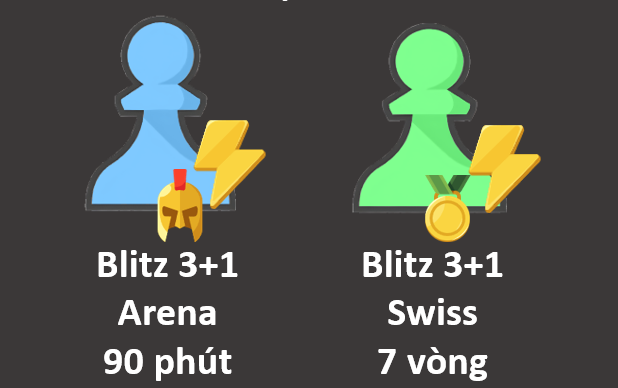
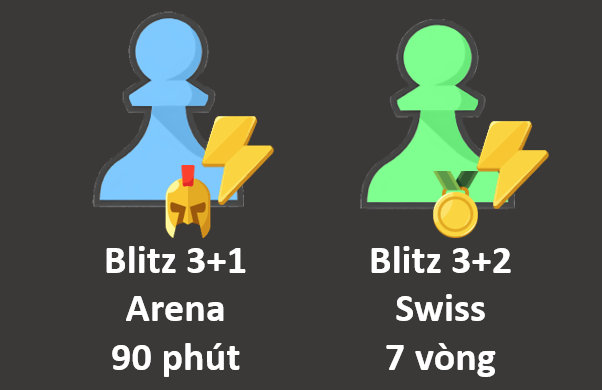
Update contents

diff --git a/js/schedule.js b/js/schedule.js
@@ -482,9 +482,6 @@ function renderEventCard(tournament, container) {
         </div>
         <div class="event-card-footer">
             <button class="btn btn-secondary card-detail-btn"><i class="bx bx-info-circle"></i> Chi tiết</button>
-            <a href="${tournament.joinLink || '#'}" target="_blank" class="card-join-link">
-                <button class="btn btn-primary"><i class="bx bx-user-plus"></i> Tham gia</button>
-            </a>
         </div>
     `;
 

diff --git a/schedule.md b/schedule.md
@@ -134,7 +134,7 @@ title: Lịch sự kiện của tháng
     <a href="/events/tvlt-thi-vua-lay-tot" style="display: block" target="_top"><img src="/images/tvltlogo.png" alt="TVLT" title="Thí Vua Lấy Tốt" class="inl-bl">: <b>Siêu giải Thí Vua Lấy Tốt</b></a><br>
     <a href="/events/cttq-chien-truong-thi-quan" style="display: block" target="_top"><img src="/images/events/logo/cttq.png" alt="CTTQ" title="Chiến Trường Thí Quân" class="inl-bl">: <b>Sự kiện Chiến Trường Thí Quân</b></a><br>
     <a href="/events/cbtt-co-bi-thi-tot" style="display: block" target="_top"><img src="/images/events/logo/cbtt-swiss.png" alt="CBTT Swiss" title="Cờ Bí Thí Tốt Swiss" class="inl-bl"><img src="/images/events/logo/cbtt-arena.png" title="Cờ Bí Thí Tốt Arena" alt="CBTT Arena" class="inl-bl">: <b>Giải đấu Cờ Bí Thí Tốt</b></a><br>
-    <a href="https://chess.com/clubs/events/thi-vua-lay-tot-tungjohn-playing-chess?clubId=325849&ref_id=89365835&cid=325849" target="_blank" style="display: block"><img src="https://chess.com/bundles/web/images/color-icons/time-daily.a2f7bbb6.svg" title="Daily Chess Matches" class="inl-bl"><img src="https://chess.com/bundles/web/images/color-icons/tournaments.3a561883.svg" title="Giải đấu hệ Thụy Sĩ (Swiss tournament)" class="inl-bl"><img src="https://chess.com/bundles/web/images/color-icons/arena-club-multi.b56c9ae4.svg" title="Đấu trường đa câu lạc bộ (Multi-Club Arena)" class="inl-bl"><img src="https://chess.com/bundles/web/images/color-icons/clipboard-vote.svg" title="Cờ vua bỏ phiếu (Votechess)" class="inl-bl"><img src="https://chess.com/bundles/web/images/color-icons/arena-club.495ffa75.svg" title="Giải đấu Đấu trường (Arena)" class="inl-bl">: <b>Các thể loại giải đấu khác</b></a>
+    <a href="https://chess.com/clubs/events/thi-vua-lay-tot-tungjohn-playing-chess?clubId=325849&ref_id=89365835" target="_blank" style="display: block"><img src="https://chess.com/bundles/web/images/color-icons/time-daily.a2f7bbb6.svg" title="Daily Chess Matches" class="inl-bl"><img src="https://chess.com/bundles/web/images/color-icons/tournaments.3a561883.svg" title="Giải đấu hệ Thụy Sĩ (Swiss tournament)" class="inl-bl"><img src="https://chess.com/bundles/web/images/color-icons/arena-club-multi.b56c9ae4.svg" title="Đấu trường đa câu lạc bộ (Multi-Club Arena)" class="inl-bl"><img src="https://chess.com/bundles/web/images/color-icons/clipboard-vote.svg" title="Cờ vua bỏ phiếu (Votechess)" class="inl-bl"><img src="https://chess.com/bundles/web/images/color-icons/arena-club.495ffa75.svg" title="Giải đấu Đấu trường (Arena)" class="inl-bl">: <b>Các thể loại giải đấu khác</b></a>
 </div>
 <!-- Modal -->
 <div id="eventModal" class="cc-modal-overlay" aria-hidden="true" role="dialog" aria-modal="true">
@@ -193,7 +193,7 @@ title: Lịch sự kiện của tháng
 .month-nav-btn{background:rgba(10,25,47,.65);border:1.5px solid var(--cyan-400);border-radius:var(--border-radius-lg);color:var(--cyan-300);width:44px;height:44px;font-size:24px;cursor:pointer;display:inline-flex;align-items:center;justify-content:center;transition:all .3s cubic-bezier(.4,0,.2,1);box-shadow:0 4px 10px rgba(0,242,255,.05);outline:none}
 .month-nav-btn:hover{background:rgba(0,242,255,.1);color:var(--cyan-100);border-color:var(--cyan-300);box-shadow:0 0 15px rgba(0,242,255,.25);transform:translateY(-2px)}
 .month-nav-btn:active,.btn-switcher:active,.btn-primary:active,.btn-secondary:active{transform:translateY(0)}
-.month-title{flex:1;max-width:400px;text-align:center;font-size:var(--fs-2xl);font-family:cursive;font-weight:var(--fw-bold);color:var(--cyan-400);text-transform:uppercase;text-shadow:0 0 6px var(--cyan-300);padding:var(--space-md);background:linear-gradient(180deg,var(--color-bg-secondary) 0%,var(--color-bg-tertiary) 100%);border:var(--border-width-base) solid var(--cyan-400);border-radius:var(--border-radius-lg);box-shadow:0 0 15px var(--cyan-200),0 0 30px rgba(0,242,255,.4)}
+.month-title{flex:1;text-align:center;font-size:var(--fs-2xl);font-family:cursive;font-weight:var(--fw-bold);color:var(--cyan-400);text-transform:uppercase;text-shadow:0 0 6px var(--cyan-300);padding:var(--space-md);background:linear-gradient(180deg,var(--color-bg-secondary) 0%,var(--color-bg-tertiary) 100%);border:var(--border-width-base) solid var(--cyan-400);border-radius:var(--border-radius-lg);box-shadow:0 0 15px var(--cyan-200),0 0 30px rgba(0,242,255,.4)}
 
 #calendar-wrapper,.calendar-wrapper{width:100%;overflow-x:auto;-webkit-overflow-scrolling:touch;padding-bottom:12px;border-radius:12px}
 table{width:100%;border-collapse:collapse;background:radial-gradient(circle at center,var(--color-bg-tertiary) 0%,var(--color-bg-primary) 100%);border:var(--border-width-base) solid var(--cyan-400);border-radius:var(--border-radius-lg);box-shadow:0 0 15px var(--cyan-200),0 0 30px rgba(0,242,255,.4),inset 0 0 20px rgba(0,242,255,.1)}

diff --git a/_posts/2022-10-14-sieu-giai-thi-vua-lay-tot.md b/_posts/2022-10-14-sieu-giai-thi-vua-lay-tot.md
@@ -38,7 +38,7 @@ Giải đầu tiên được tổ chức vào [**15/12/2022**](/events/tournamen
 | 2 giải may mắn | 20.000₫ |
 
 - Phần thưởng có thể gồm:
-  - Tiền thưởng
+  - Tiền thưởng (chính)
   - Huy chương
   - Chess.com Membership
   - Một số hiện vật khác
